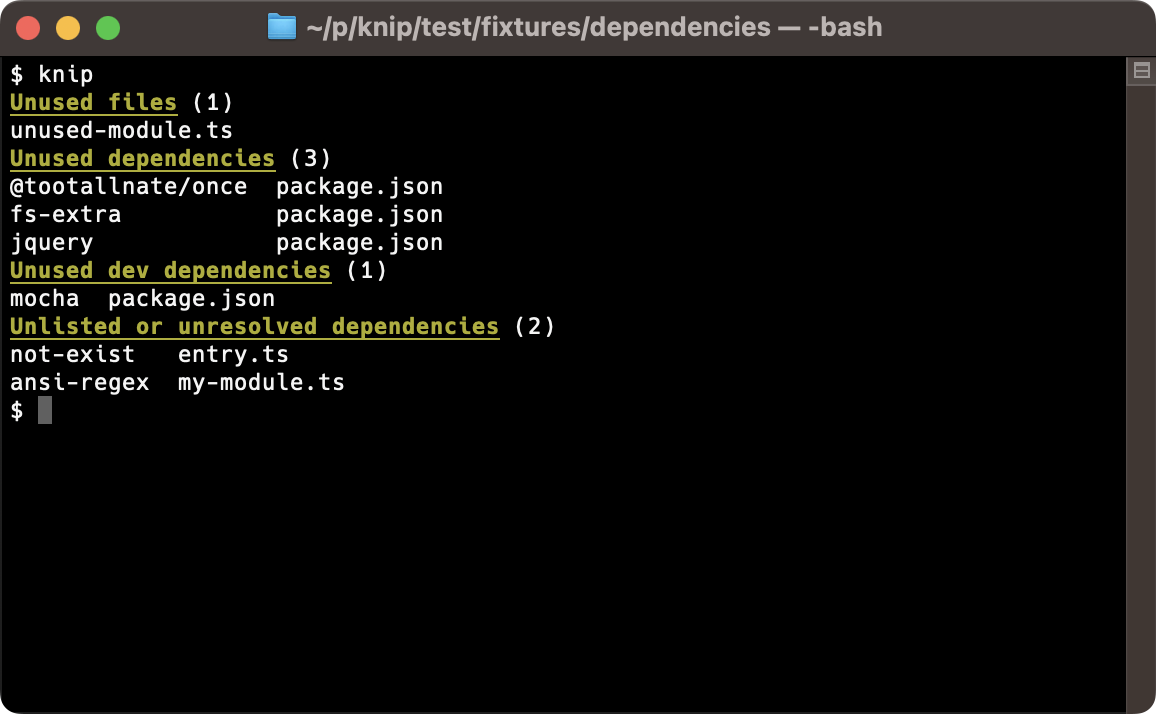
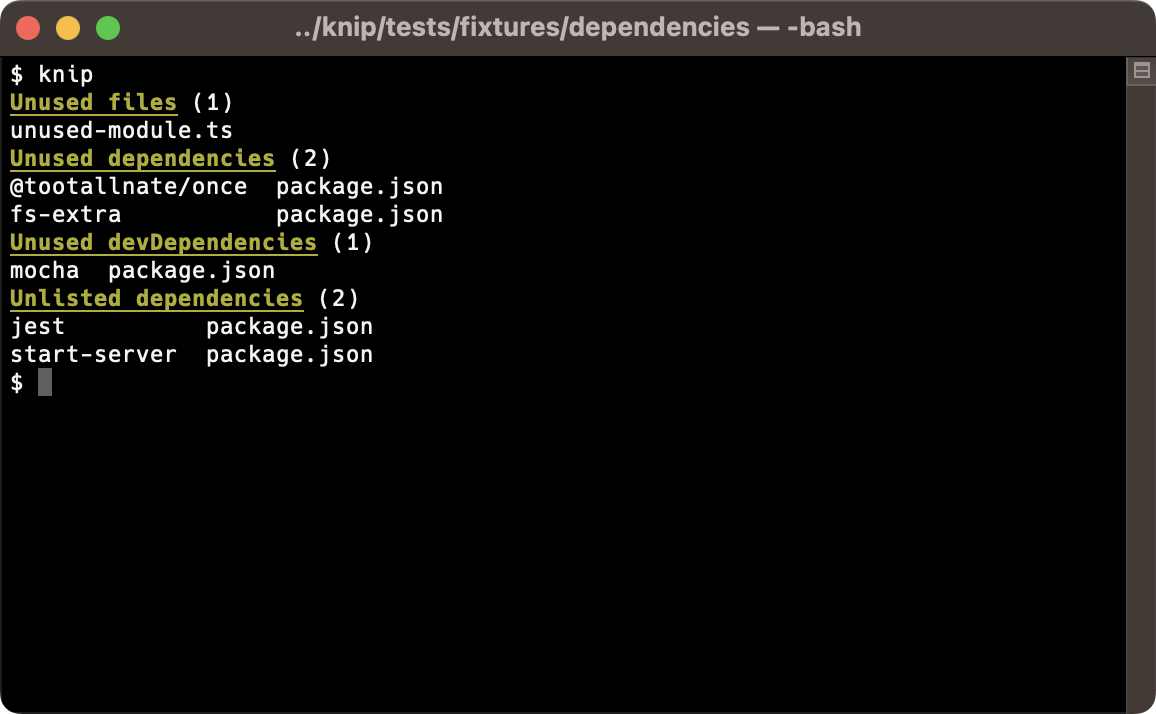
Improve dependencies fixtures + screenshot

Changed region(s): [[0.0, 0.3081, 0.4671, 0.6162], [0.218, 0.0, 0.7785, 0.0616]]

diff --git a/tests/dependencies.test.ts b/tests/dependencies.test.ts
@@ -15,22 +15,21 @@ test('Find unused dependencies', async () => {
 
   assert(issues.files.has(join(cwd, 'unused-module.ts')));
 
-  assert.equal(Object.keys(issues.dependencies['package.json']).length, 1);
+  assert.equal(Object.keys(issues.dependencies['package.json']).length, 2);
   assert(issues.dependencies['package.json']['@tootallnate/once']);
+  assert(issues.dependencies['package.json']['fs-extra']);
   assert(issues.devDependencies['package.json']['mocha']);
 
-  assert.equal(Object.keys(issues.unlisted).length, 3);
-  assert(issues.unlisted['my-module.ts']['ansi-regex']);
-  assert(issues.unlisted['entry.ts']['not-exist']);
-  assert(issues.unlisted['package.json']['server']);
+  assert.equal(Object.keys(issues.unlisted).length, 1);
+  assert(issues.unlisted['package.json']['start-server']);
   assert(issues.unlisted['package.json']['jest']);
 
   assert.deepEqual(counters, {
     ...baseCounters,
     files: 1,
-    dependencies: 1,
+    dependencies: 2,
     devDependencies: 1,
-    unlisted: 4,
+    unlisted: 2,
     processed: 3,
     total: 3,
   });
@@ -45,22 +44,21 @@ test('Find unused dependencies (production)', async () => {
 
   assert(issues.files.has(join(cwd, 'unused-module.ts')));
 
-  assert.equal(Object.keys(issues.dependencies['package.json']).length, 1);
+  assert.equal(Object.keys(issues.dependencies['package.json']).length, 2);
   assert(issues.dependencies['package.json']['@tootallnate/once']);
+  assert(issues.dependencies['package.json']['fs-extra']);
   assert.equal(Object.keys(issues.devDependencies).length, 0);
 
-  assert.equal(Object.keys(issues.unlisted).length, 3);
-  assert(issues.unlisted['my-module.ts']['ansi-regex']);
-  assert(issues.unlisted['entry.ts']['not-exist']);
-  assert(issues.unlisted['package.json']['server']);
+  assert.equal(Object.keys(issues.unlisted).length, 1);
+  assert(issues.unlisted['package.json']['start-server']);
   assert(!issues.unlisted['package.json']['jest']);
 
   assert.deepEqual(counters, {
     ...baseCounters,
     files: 1,
-    dependencies: 1,
+    dependencies: 2,
     devDependencies: 0,
-    unlisted: 3,
+    unlisted: 1,
     processed: 3,
     total: 3,
   });
@@ -76,15 +74,16 @@ test('Find unused dependencies (strict)', async () => {
 
   assert(issues.files.has(join(cwd, 'unused-module.ts')));
 
-  assert.equal(Object.keys(issues.dependencies['package.json']).length, 2);
+  assert.equal(Object.keys(issues.dependencies['package.json']).length, 3);
   assert(issues.dependencies['package.json']['@tootallnate/once']);
+  assert(issues.dependencies['package.json']['fs-extra']);
   assert(issues.dependencies['package.json']['jquery']);
 
   assert.deepEqual(counters, {
     ...baseCounters,
     files: 1,
-    dependencies: 2,
-    unlisted: 3,
+    dependencies: 3,
+    unlisted: 1,
     processed: 3,
     total: 3,
   });

diff --git a/tests/fixtures/dependencies/entry.ts b/tests/fixtures/dependencies/entry.ts
@@ -1,5 +1,4 @@
 import is from '@sindresorhus/is';
-import does from 'not-exist';
 import has, { program } from './my-module.js';
 
 const what = is(has);
